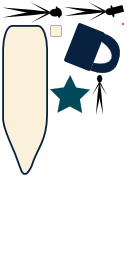
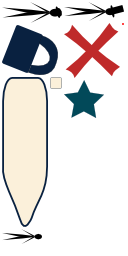
Got timer working

Changed region(s): [[0.0, 0.0938, 0.9375, 0.4688], [0.0, 0.4375, 0.375, 0.9688]]

diff --git a/duelists.js b/duelists.js
@@ -18,6 +18,7 @@ goog.require('lime.Director');
 goog.require('lime.Scene');
 goog.require('lime.Layer');
 goog.require('lime.Circle');
+goog.require('lime.Polygon');
 goog.require('lime.RoundedRect');
 goog.require('lime.Label');
 goog.require('lime.animation.Spawn');
@@ -31,8 +32,10 @@ goog.require('kchodorow.lime.SpriteScale9');
 var kAntag = 500;
 var kGround = 430;
 var kHeight = 472;
+var kLost = false;
 var kProtag = 100;
 var kWidth = 700;
+var kWon = true;
 var kClickEvent = ['mousedown','touchstart'];
 
 // On levels layer
@@ -61,6 +64,7 @@ var getLevelsLayer = function() {
         .setPosition(0, 0);
     var antag = new lime.Sprite().setFill(spriteSheet.getFrame('antag.png'));
     bg.appendChild(antag);
+    goog.events.listen(bg, kClickEvent, showLevel);
     levels.appendChild(bg);
     for (var col = 0; col < bNumY; col++) {
 	for (var row = 0; row < bNumX; row++) {
@@ -111,25 +115,17 @@ duelists.openingScene = function() {
 
     // Speech bubbles
     this.bubbles = [];
-    var protag_bubble = new kchodorow.lime.SpriteScale9().setFill(spriteSheet.getFrame('bubble.png'))
-        .scale9(300, 100).setPosition(100, 50);
-    var protag_label = new lime.Label().setSize(280, 80).setPosition(150, 50)
-        .setFontSize(24).setFontColor('#092140')
-        .setText('To win, you must vanquish me and my second.');
-    protag_bubble.appendChild(protag_label);
-    this.scene.appendChild(protag_bubble);
-    this.bubbles.push(protag_bubble);
 
-    // Next button
     var antag_bubble = new kchodorow.lime.SpriteScale9().setFill(spriteSheet.getFrame('bubble.png'))
         .scale9(300, 100).setPosition(230, 150);
     var antag_label = new lime.Label().setSize(280, 80).setPosition(150, 50)
         .setFontSize(24).setFontColor('#BF2A2A')
-        .setText('And you must vanquish me and mine.');
+        .setText('You must vanquish me and all of my seconds to win the duel.');
     antag_bubble.appendChild(antag_label);
     this.scene.appendChild(antag_bubble);
     this.bubbles.push(antag_bubble);
 
+    // Next button
     var next_bubble = new lime.Sprite().setFill(spriteSheet.getFrame('next.png'))
         .setPosition(100, 250);
     var next_label = new lime.Label().setSize(190, 40).setPosition(100, 25)
@@ -210,25 +206,42 @@ var addSeconds = function(duelists, e) {
 };
 
 currentLevel = 0;
-var endGame = function() {
-    var layer = this.getParent();
-    var scene = layer.getParent();
+var endGame = function(won) {
+    lime.scheduleManager.unschedule(runTimer, duelists.board.timer);
+    dotCount = 0;
 
     // Remove board
-    scene.removeChild(layer);
+    duelists.scene.removeChild(duelists.board);
+    // Pop the last child: the banner
+    duelists.scene.removeChildAt(duelists.scene.getNumberOfChildren()-1);
 
     // Display levels
     var levels = getLevelsLayer();
+    duelists.scene.appendChild(levels);
+
     var sprite = levels.children_[currentLevel];
+
+    if (!won) {
+	var x = new lime.Sprite().setFill(spriteSheet.getFrame('x.png'));
+	sprite.appendChild(x);
+	sprite.x = x;
+	return;
+    }
+
+    sprite.removeChild(sprite.x);
     var star = new lime.Sprite().setFill(spriteSheet.getFrame('star.png'));
     sprite.appendChild(star);
-    scene.appendChild(levels);
 
     currentLevel++;
-    dotCount = 0;
 
-    // TODO: 
+    // TODO: test
     if (currentLevel > 10) {
+	var star = new lime.Sprite().setFill(spriteSheet.getFrame('star.png'))
+	    .setSize(300, 300).setPosition(kWidth/2, kHeight/2);
+	var youWin = new lime.Label().setText("YOU WIN!");
+	star.appendChild(youWin);
+	duelists.scene.appendChild(star);
+	return;
     }
 
     var nextLevel = levels.children_[currentLevel];
@@ -255,10 +268,9 @@ var selectDot = function(e) {
     }
     curColor = this.color;
     if (dotCount >= 3) {
-	endGame.call(this);
+	endGame(kWon);
     }
 };
-
 
 var kTargetAlpha = 175;
 
@@ -287,7 +299,7 @@ var showLevel = function() {
 
     var level = kchodorow.Levels[currentLevel];
     // TODO: fix centering
-    var board = new lime.Layer().setPosition(kWidth/2, kHeight/2);
+    var board = new lime.Layer().setPosition(250, 70);
     for (var i = 0; i < level.getWidth(); i++) {
 	for (var j = 0; j < level.getHeight(); j++) {
 	    var startingSize = Math.floor(Math.random()*20)+10; // 10px - 30px
@@ -301,7 +313,38 @@ var showLevel = function() {
 	    board.appendChild(dot);
 	}
     }
+    duelists.board = board;
+
+    var timer = new lime.Label()
+        .setText(level.getSeconds())
+        .setFontSize(24).setFontColor(9, 33, 64)
+        .setPosition(-100, 150);
+    timer.numeric_time = level.getSeconds();
+    timer.last_update = 0;
+    lime.scheduleManager.schedule(runTimer, timer);
+    board.appendChild(timer);
+    board.timer = timer;
+
+    var banner_label = new lime.Label()
+        .setText("Shoot three circles of the same color in a row before the timer runs out")
+        .setFontSize(24).setFontColor(9, 33, 64)
+        .setPosition(kWidth/2, 100).setSize(kWidth-20, 150);
+    duelists.scene.appendChild(banner_label);
+    
     duelists.scene.appendChild(board);
+};
+
+var runTimer = function t(dt) {
+    this.last_update += dt;
+    if (this.last_update > 1000) {
+	this.numeric_time--;
+	this.setText(this.numeric_time);
+	if (this.numeric_time == 0) {
+	    endGame(kLost);
+	    return;
+	}
+	this.last_update = this.last_update - 1000;
+    }
 }
 
 duelists.gameOver = function(duelists) {

diff --git a/assets/duelist.json.js b/assets/duelist.json.js
@@ -2,5 +2,5 @@ goog.provide('lime.ASSETS.duelist.json');
 goog.require('soy');
 
 lime.ASSETS.duelist.json.data = function(opt_data) { 
-return JSON.parse("{\"frames\":{\"antag.png\":{\"trimmed\":false,\"frame\":{\"y\":2,\"x\":2,\"w\":21,\"h\":60},\"rotated\":true,\"sourceSize\":{\"h\":60,\"w\":21},\"spriteSourceSize\":{\"y\":0,\"x\":0,\"w\":21,\"h\":60}},\"lock.png\":{\"trimmed\":false,\"frame\":{\"y\":23,\"x\":64,\"w\":50,\"h\":56},\"rotated\":true,\"sourceSize\":{\"h\":56,\"w\":50},\"spriteSourceSize\":{\"y\":0,\"x\":0,\"w\":50,\"h\":56}},\"next.png\":{\"trimmed\":false,\"frame\":{\"y\":25,\"x\":2,\"w\":150,\"h\":46},\"rotated\":true,\"sourceSize\":{\"h\":46,\"w\":150},\"spriteSourceSize\":{\"y\":0,\"x\":0,\"w\":150,\"h\":46}},\"protag.png\":{\"trimmed\":false,\"frame\":{\"y\":2,\"x\":64,\"w\":19,\"h\":60},\"rotated\":true,\"sourceSize\":{\"h\":60,\"w\":19},\"spriteSourceSize\":{\"y\":0,\"x\":0,\"w\":19,\"h\":60}},\"star.png\":{\"trimmed\":false,\"frame\":{\"y\":75,\"x\":50,\"w\":40,\"h\":38},\"rotated\":false,\"sourceSize\":{\"h\":38,\"w\":40},\"spriteSourceSize\":{\"y\":0,\"x\":0,\"w\":40,\"h\":38}},\"bubble.png\":{\"trimmed\":false,\"frame\":{\"y\":25,\"x\":50,\"w\":12,\"h\":12},\"rotated\":false,\"sourceSize\":{\"h\":12,\"w\":12},\"spriteSourceSize\":{\"y\":0,\"x\":0,\"w\":12,\"h\":12}},\"dot.png\":{\"trimmed\":false,\"frame\":{\"y\":23,\"x\":122,\"w\":2,\"h\":2},\"rotated\":false,\"sourceSize\":{\"h\":2,\"w\":2},\"spriteSourceSize\":{\"y\":0,\"x\":0,\"w\":2,\"h\":2}},\"duelist.png\":{\"trimmed\":false,\"frame\":{\"y\":75,\"x\":92,\"w\":15,\"h\":40},\"rotated\":false,\"sourceSize\":{\"h\":40,\"w\":15},\"spriteSourceSize\":{\"y\":0,\"x\":0,\"w\":15,\"h\":40}}},\"meta\":{\"scale\":\"1\",\"format\":\"RGBA8888\",\"app\":\"http://www.codeandweb.com/texturepacker \",\"version\":\"1.0\",\"smartupdate\":\"$TexturePacker:SmartUpdate:d1a47819e572747e599c03076a0f4bc3$\",\"image\":\"duelist.png\",\"size\":{\"h\":256,\"w\":128}}}");
+return JSON.parse("{\"frames\":{\"antag.png\":{\"trimmed\":false,\"frame\":{\"y\":2,\"x\":2,\"w\":21,\"h\":60},\"rotated\":true,\"sourceSize\":{\"h\":60,\"w\":21},\"spriteSourceSize\":{\"y\":0,\"x\":0,\"w\":21,\"h\":60}},\"lock.png\":{\"trimmed\":false,\"frame\":{\"y\":25,\"x\":2,\"w\":50,\"h\":56},\"rotated\":true,\"sourceSize\":{\"h\":56,\"w\":50},\"spriteSourceSize\":{\"y\":0,\"x\":0,\"w\":50,\"h\":56}},\"next.png\":{\"trimmed\":false,\"frame\":{\"y\":77,\"x\":2,\"w\":150,\"h\":46},\"rotated\":true,\"sourceSize\":{\"h\":46,\"w\":150},\"spriteSourceSize\":{\"y\":0,\"x\":0,\"w\":150,\"h\":46}},\"protag.png\":{\"trimmed\":false,\"frame\":{\"y\":2,\"x\":64,\"w\":19,\"h\":60},\"rotated\":true,\"sourceSize\":{\"h\":60,\"w\":19},\"spriteSourceSize\":{\"y\":0,\"x\":0,\"w\":19,\"h\":60}},\"star.png\":{\"trimmed\":false,\"frame\":{\"y\":80,\"x\":64,\"w\":40,\"h\":38},\"rotated\":false,\"sourceSize\":{\"h\":38,\"w\":40},\"spriteSourceSize\":{\"y\":0,\"x\":0,\"w\":40,\"h\":38}},\"bubble.png\":{\"trimmed\":false,\"frame\":{\"y\":77,\"x\":50,\"w\":12,\"h\":12},\"rotated\":false,\"sourceSize\":{\"h\":12,\"w\":12},\"spriteSourceSize\":{\"y\":0,\"x\":0,\"w\":12,\"h\":12}},\"x.png\":{\"trimmed\":false,\"frame\":{\"y\":23,\"x\":64,\"w\":55,\"h\":56},\"rotated\":true,\"sourceSize\":{\"h\":56,\"w\":55},\"spriteSourceSize\":{\"y\":0,\"x\":0,\"w\":55,\"h\":56}},\"dot.png\":{\"trimmed\":false,\"frame\":{\"y\":23,\"x\":122,\"w\":2,\"h\":2},\"rotated\":false,\"sourceSize\":{\"h\":2,\"w\":2},\"spriteSourceSize\":{\"y\":0,\"x\":0,\"w\":2,\"h\":2}},\"duelist.png\":{\"trimmed\":false,\"frame\":{\"y\":229,\"x\":2,\"w\":15,\"h\":40},\"rotated\":true,\"sourceSize\":{\"h\":40,\"w\":15},\"spriteSourceSize\":{\"y\":0,\"x\":0,\"w\":15,\"h\":40}}},\"meta\":{\"scale\":\"1\",\"format\":\"RGBA8888\",\"app\":\"http://www.codeandweb.com/texturepacker \",\"version\":\"1.0\",\"smartupdate\":\"$TexturePacker:SmartUpdate:a570d670836090ef4371424f17bc683d$\",\"image\":\"duelist.png\",\"size\":{\"h\":256,\"w\":128}}}");
 }

diff --git a/level.js b/level.js
@@ -11,10 +11,11 @@ var colorMap =
      {r: 4, g: 146, b: 178},
      ]; 
 
-kchodorow.Level = function(width, height, colors) {
+kchodorow.Level = function(width, height, colors, time) {
     this.width_ = width;
     this.height_ = height;
     this.colors_ = colors;
+    this.seconds_ = time;
 };
 
 kchodorow.Level.prototype.getWidth = function() {
@@ -29,17 +30,21 @@ kchodorow.Level.prototype.getColor = function() {
     return colorMap[Math.floor(Math.random()*this.colors_)];
 };
 
+kchodorow.Level.prototype.getSeconds = function() {
+    return this.seconds_;
+};
+
 kchodorow.Levels = 
     [
-     new kchodorow.Level(3, 3, 2),
-     new kchodorow.Level(4, 4, 3),
-     new kchodorow.Level(5, 5, 3),
-     new kchodorow.Level(5, 5, 3),
-     new kchodorow.Level(5, 5, 3),
-     new kchodorow.Level(5, 5, 3),
-     new kchodorow.Level(5, 5, 3),
-     new kchodorow.Level(5, 5, 3),
-     new kchodorow.Level(5, 5, 3),
-     new kchodorow.Level(5, 5, 3),
-     new kchodorow.Level(5, 5, 3),
+     new kchodorow.Level(6, 6, 2, 10),
+     new kchodorow.Level(6, 6, 3, 9),
+     new kchodorow.Level(5, 5, 3, 8),
+     new kchodorow.Level(4, 4, 3, 7),
+     new kchodorow.Level(3, 3, 3, 6),
+     new kchodorow.Level(5, 5, 3, 5),
+     new kchodorow.Level(5, 5, 3, 5),
+     new kchodorow.Level(5, 5, 3, 5),
+     new kchodorow.Level(5, 5, 3, 5),
+     new kchodorow.Level(5, 5, 3, 5),
+     new kchodorow.Level(5, 5, 3, 3),
      ];
